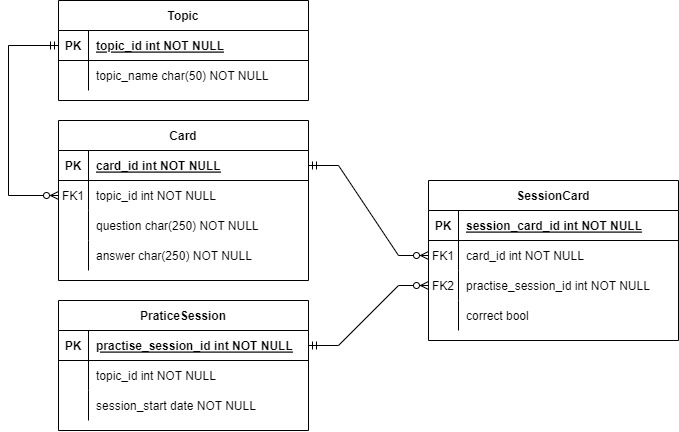
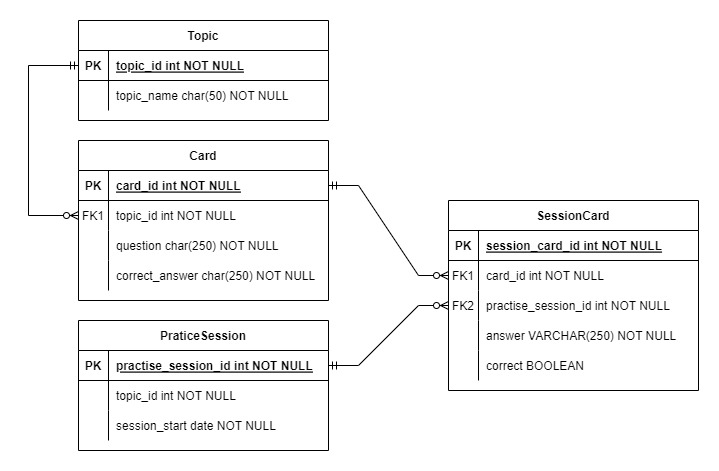
updated datamodel

diff --git a/index_cards/api/models.py b/index_cards/api/models.py
@@ -1,5 +1,5 @@
 from django.db import models
-from datetime import datetime
+
 # Create your models here.
 
 
@@ -15,10 +15,11 @@ class Card(models.Model):
 
 class PractiseSession(models.Model):
     topic = models.ForeignKey(Topic, on_delete=models.CASCADE)
-    session_start = models.DateTimeField(default=datetime.now)
+    session_start = models.DateTimeField(auto_now_add=True)
 
 
 class SessionCard(models.Model):
     card = models.ForeignKey(Card, on_delete=models.CASCADE)
     practise_session = models.ForeignKey(PractiseSession, on_delete=models.CASCADE)
+    user_answer = models.CharField(max_length=250)
     correct = models.BooleanField(null=True)
